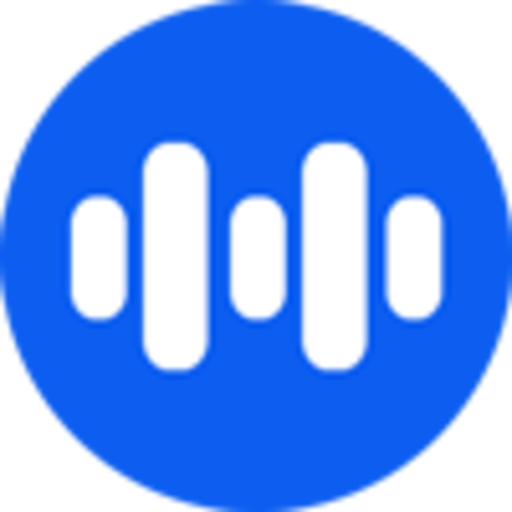
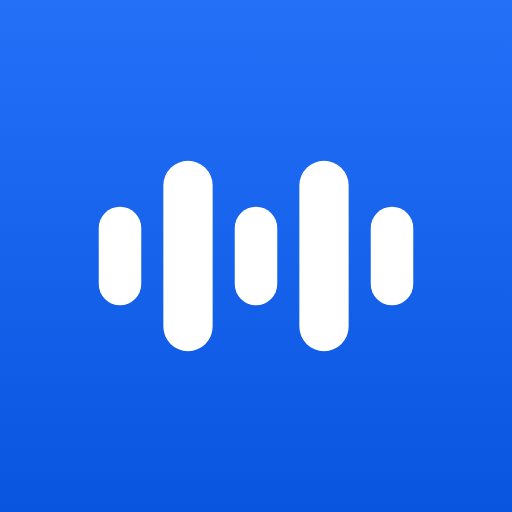
feat(pwa): novo ícone da tela de início (iOS/Android)
- apple-touch-icon 180px com fundo azul cheio (antes: círculo com cantos
  transparentes que o iOS preenche de preto)
- android-chrome 192/512 nítidos (o 512 era ampliado e borrado)
- ícone maskable 512px para Android; fonte vetorial em brand/app-icon.svg

Claude-Session: https://claude.ai/code/session_01Q3QXs6u9pZhmHsay39ZRTP

diff --git a/client/index.html b/client/index.html
@@ -14,7 +14,7 @@
     <link rel="icon" type="image/png" sizes="32x32" href="/favicon-32x32.png">
     <link rel="icon" type="image/png" sizes="48x48" href="/favicon-48x48.png">
     <link rel="icon" type="image/png" sizes="96x96" href="/favicon-96x96.png">
-    <link rel="apple-touch-icon" sizes="180x180" href="/apple-touch-icon.png">
+    <link rel="apple-touch-icon" sizes="180x180" href="/apple-touch-icon.png?v=2">
     <meta name="theme-color" content="#1a67c2">
     <meta name="apple-mobile-web-app-capable" content="yes">
     <meta name="mobile-web-app-capable" content="yes">

diff --git a/vite.config.ts b/vite.config.ts
@@ -36,6 +36,8 @@ const plugins = [
       icons: [
         { src: "/android-chrome-192x192.png", sizes: "192x192", type: "image/png", purpose: "any" },
         { src: "/android-chrome-512x512.png", sizes: "512x512", type: "image/png", purpose: "any" },
+        // Android recorta em círculo/squircle: fundo cheio e marca na zona segura.
+        { src: "/maskable-icon-512x512.png", sizes: "512x512", type: "image/png", purpose: "maskable" },
       ],
     },
     workbox: {
